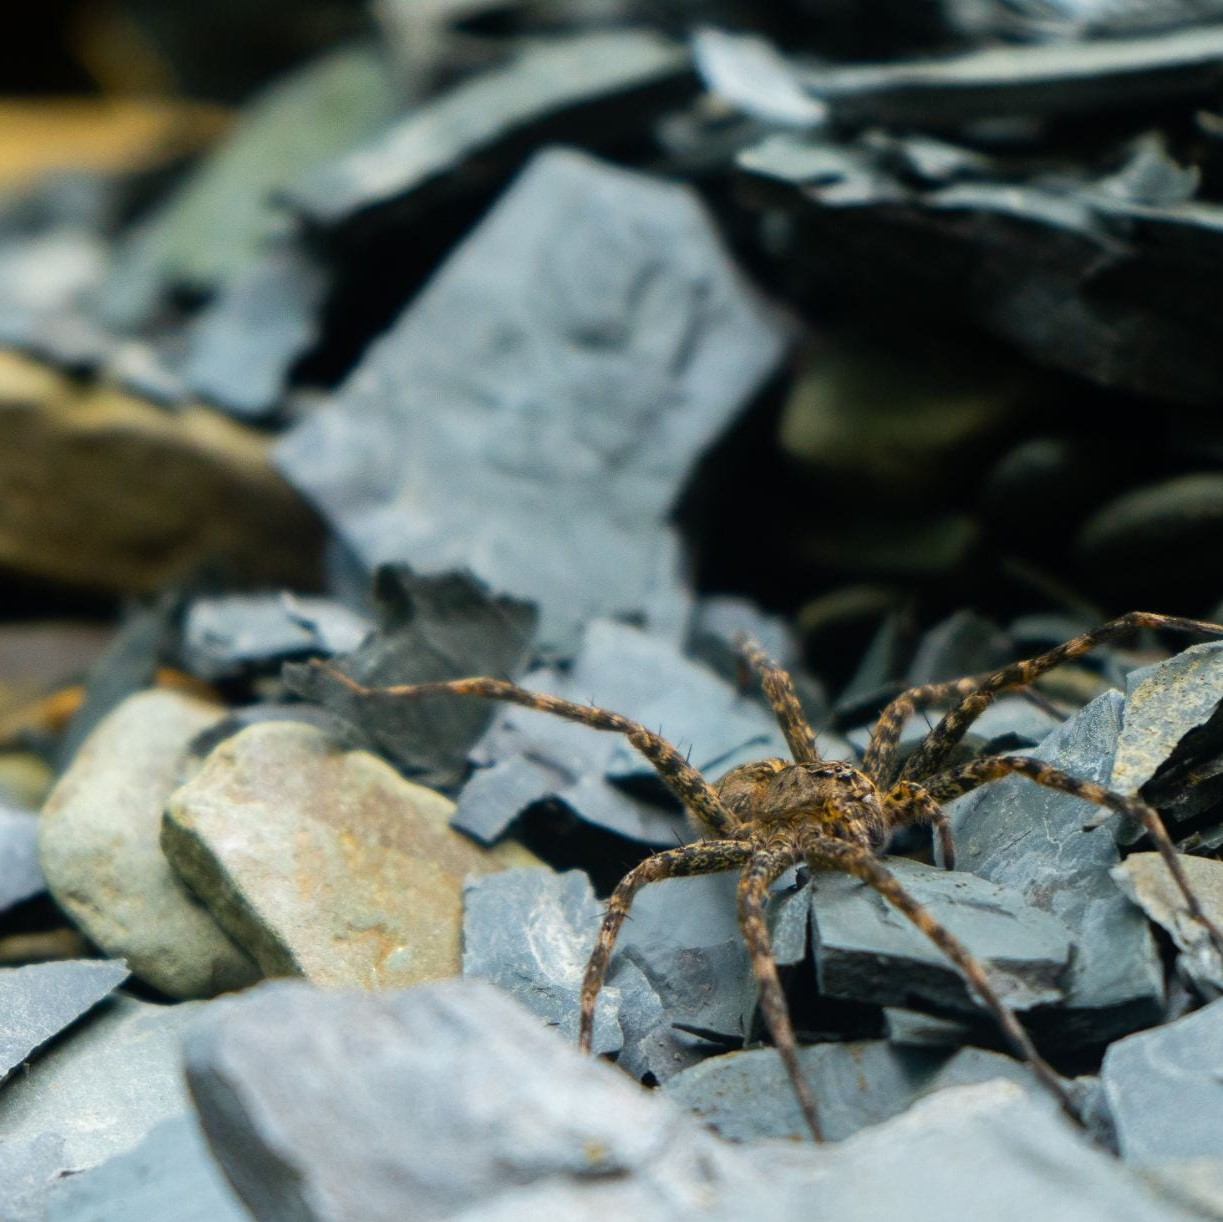
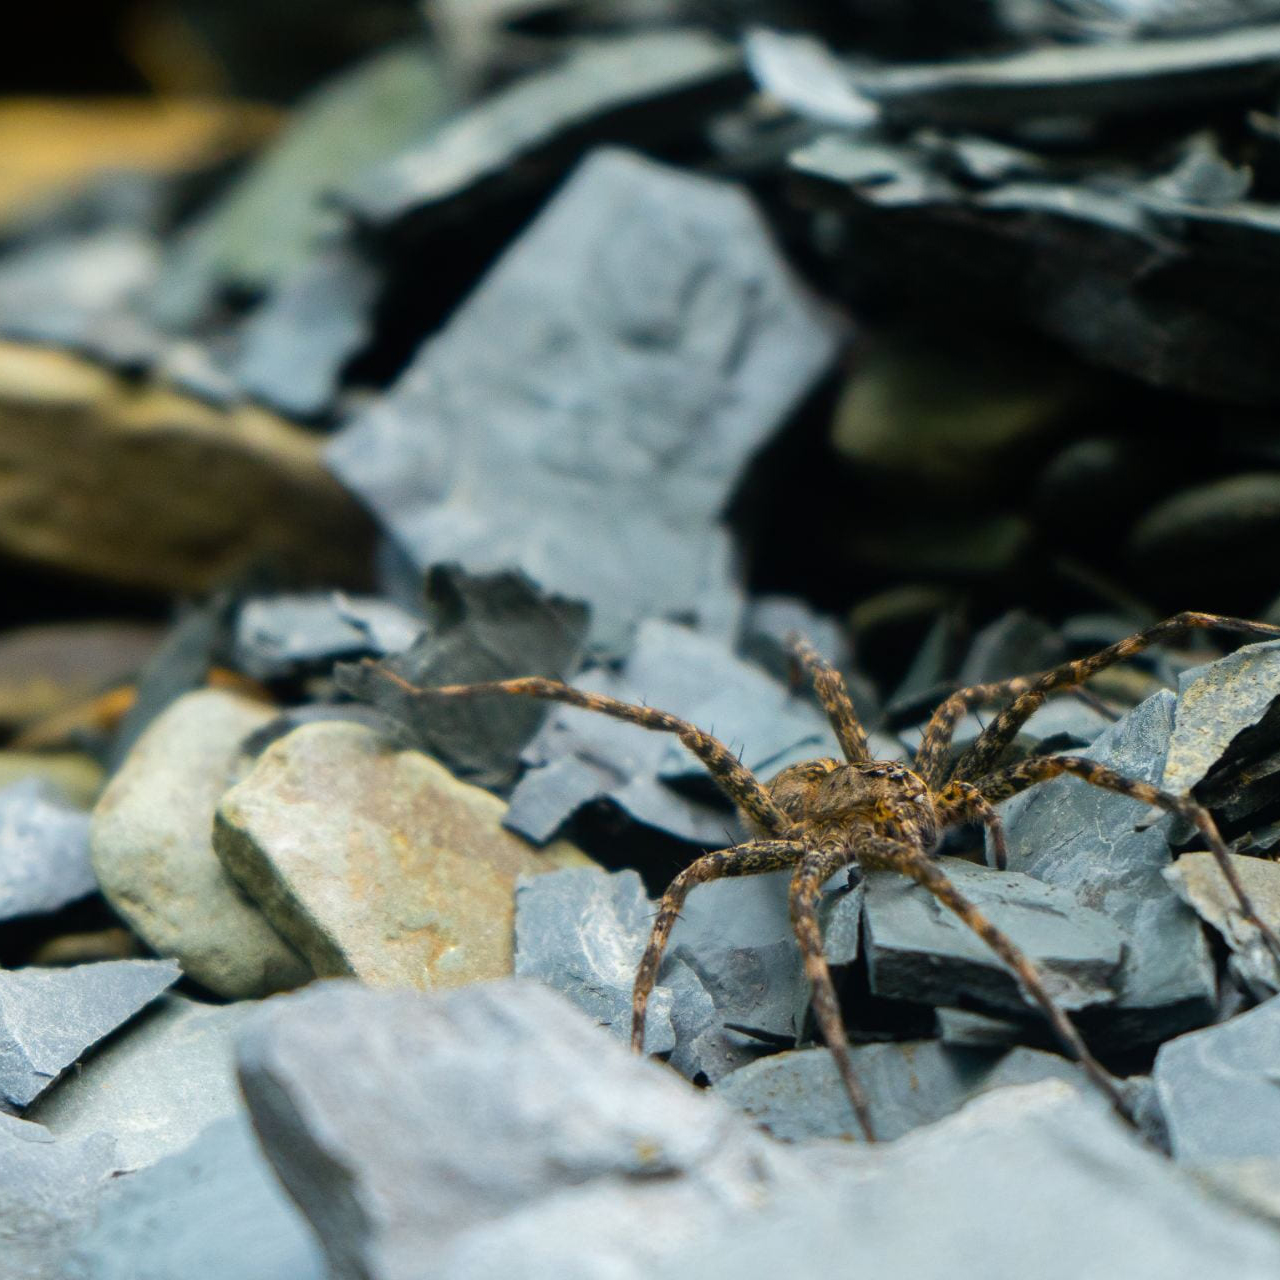
implemented all project images, adjusted photo sizes to be perfectly square. Removed Footer temporarily due to issues.

diff --git a/docs/showcase.html b/docs/showcase.html
@@ -67,7 +67,159 @@
                         
                     </div>
                 </div>
-                <!-- ADD MORE PROJECTS ABOVE THIS -->
+                <div class="work">
+                        
+                        <img src="images/studentProj/1x1Ratio/btrees.jpg" alt="Behrend Trees"></img>
+                        <div class="workContainer">
+                            
+                        </div>
+                        <div class="desc">
+                            
+                        </div>
+                    </div>
+                </div>
+                <div class="work">
+                    
+                    <img src="images/studentProj/1x1Ratio/PYSpringArtShow.jpg" alt="Pat Yahn art gallery"></img>
+                    <div class="workContainer">
+                        
+                    </div>
+                    <div class="desc">
+                        
+                    </div>
+                </div>
+                <div class="work">
+                    
+                    <img src="images/studentProj/1x1Ratio/piperPoetry.jpg" alt="Piper Poetry"></img>
+                    <div class="workContainer">
+                        
+                    </div>
+                    <div class="desc">
+                        
+                    </div>
+                </div>
+                <div class="work">
+                    
+                    <img src="images/studentProj/1x1Ratio/capitalism_pubpark_photo.jpg" alt="Piper Barron's Captialism of Public Parks"></img>
+                    <div class="workContainer">
+                        
+                    </div>
+                    <div class="desc">
+                        
+                    </div>
+                </div>
+                <div class="work">
+                    
+                    <img src="images/studentProj/1x1Ratio/creekscene_site.jpg" alt="Isaac Esterline's The Creek Scene"></img>
+                    <div class="workContainer">
+                        
+                    </div>
+                    <div class="desc">
+                        
+                    </div>
+                </div>
+                <div class="work">
+                    
+                    <img src="images/studentProj/1x1Ratio/iadeluca-rainreverse.jpg" alt="Hannah Iadeluca's Rain in Reverse"></img>
+                    <div class="workContainer">
+                        
+                    </div>
+                    <div class="desc">
+                        
+                    </div>
+                </div>
+                <div class="work">
+                    
+                    <img src="images/studentProj/1x1Ratio/landandstory_photo.jpg" alt="Danny Pakulski's Land and Story"></img>
+                    <div class="workContainer">
+                        
+                    </div>
+                    <div class="desc">
+                        
+                    </div>
+                </div>
+                <div class="work">
+                    
+                    <img src="images/studentProj/1x1Ratio/oddity.jpg" alt=""></img>
+                    <div class="workContainer">
+                        
+                    </div>
+                    <div class="desc">
+                        
+                    </div>
+                </div>
+                <div class="work">
+                    
+                    <img src="images/studentProj/1x1Ratio/mq2.jpg" alt="Jacqueline Chan's Stop Motion"></img>
+                    <div class="workContainer">
+                        
+                    </div>
+                    <div class="desc">
+                        
+                    </div>
+                </div>
+                <div class="work">
+                    
+                    <img src="images/studentProj/1x1Ratio/LorinaRoom.png" alt="Lorina by Jacqueline Chan"></img>
+                    <div class="workContainer">
+                        
+                    </div>
+                    <div class="desc">
+                        
+                    </div>
+                </div>
+                <div class="work">
+                    
+                    <img src="images/studentProj/1x1Ratio/nightshift.jpg" alt="What Really Happens on the Night Shift by Mia Borgia"></img>
+                    <div class="workContainer">
+                        
+                    </div>
+                    <div class="desc">
+                        
+                    </div>
+                </div>
+                <div class="work">
+                    
+                    <img src="images/studentProj/1x1Ratio/ART168_WEEKLYSKETCH6.png" alt="Jacqueline Chan's Demo Reel"></img>
+                    <div class="workContainer">
+                        
+                    </div>
+                    <div class="desc">
+                        
+                    </div>
+                </div>
+                <div class="work">
+                    
+                    <img src="images/studentProj/1x1Ratio/GameBackground.png" alt="Invicta"></img>
+                    <div class="workContainer">
+                        
+                    </div>
+                    <div class="desc">
+                        
+                    </div>
+                </div>
+                <div class="work">
+                    
+                    <img src="images/studentProj/1x1Ratio/mayans.jpg" alt="Ancient Mayans"></img>
+                    <div class="workContainer">
+                        
+                    </div>
+                    <div class="desc">
+                        
+                    </div>
+                </div>
+                <!-- ADD MORE PROJECTS ABOVE THIS. BLANK PROJECT CODE:
+                    <div class="work">
+                        
+                        <img src="" alt=""></img>
+                        <div class="workContainer">
+                            
+                        </div>
+                        <div class="desc">
+                            
+                        </div>
+                    </div>
+                -->
             </div>
         </div>
         <!-- OLD HTML
@@ -294,7 +446,7 @@
     <!--        </div>
         </div>
     -->
-        <footer>
+        <!--<footer>
             <div class="footer-left">
                 <img src="images/PSB_logo.png" height="125px" alt="psu logo"/>
             </div>
@@ -328,6 +480,6 @@
                     </li>
                 </ul>
             </div>
-        </footer>
+        </footer> -->
     </body>
 </html>

diff --git a/docs/digit_style.css b/docs/digit_style.css
@@ -394,7 +394,7 @@ i:hover + .description{
 /* Footer ends */
 /* Projects page Begins*/
 .pcontainer {
-    height: 100vh;
+    height: 300vh;
     /* The rules below this message in this class should be applied 
      * site-wide or have something similar. Then we remove .pcontainer. */
     max-width: 960px;
@@ -409,6 +409,7 @@ i:hover + .description{
 .work {
     line-height: 0;
     float: left;
+    overflow: hidden;
     position: relative;
 }
 .work div.desc {
@@ -418,7 +419,7 @@ i:hover + .description{
     display: inherit;
 }
 /* PROJECT PAGE TABLET/COMPUTER VIEWING */
-@media (min-width: 455px) {
+@media (min-width: 456px) {
     div.work {
         width: 25%;
         display:inherit;
@@ -427,6 +428,7 @@ i:hover + .description{
         cursor: pointer;
         width: 100%;
         height: auto;
+        float: left;
     }
     .work div.desc {
         display: none;
